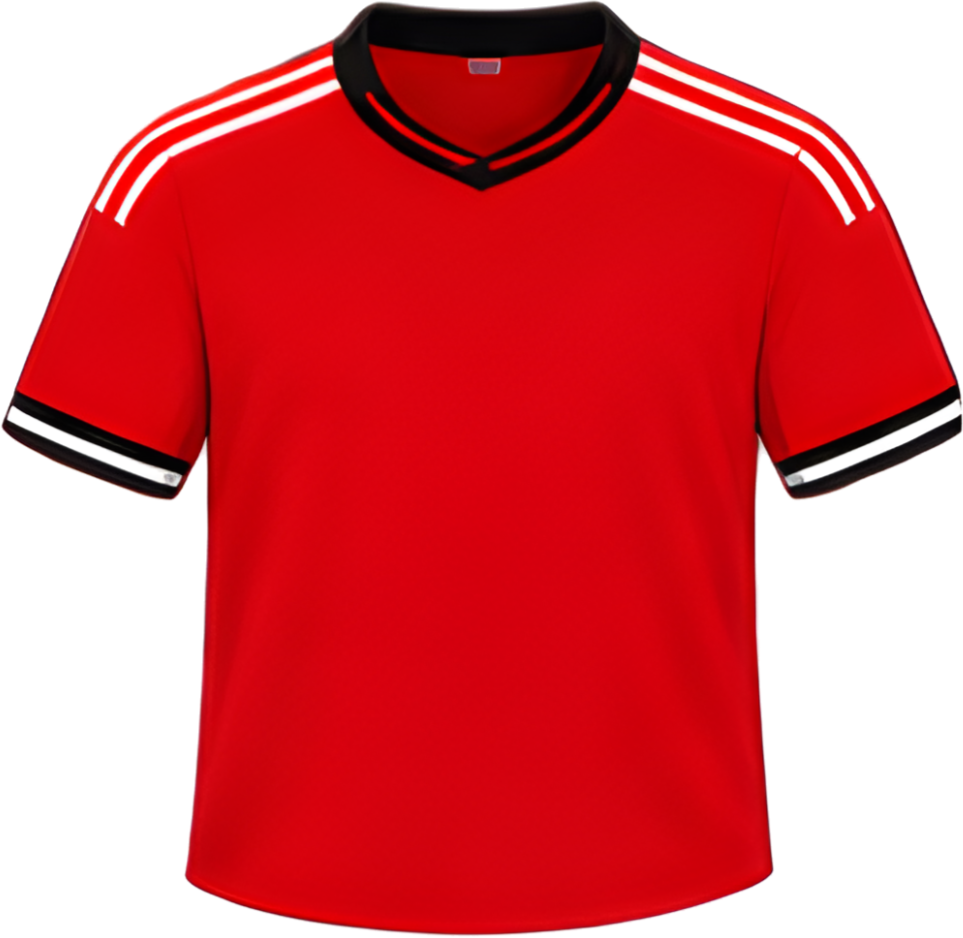
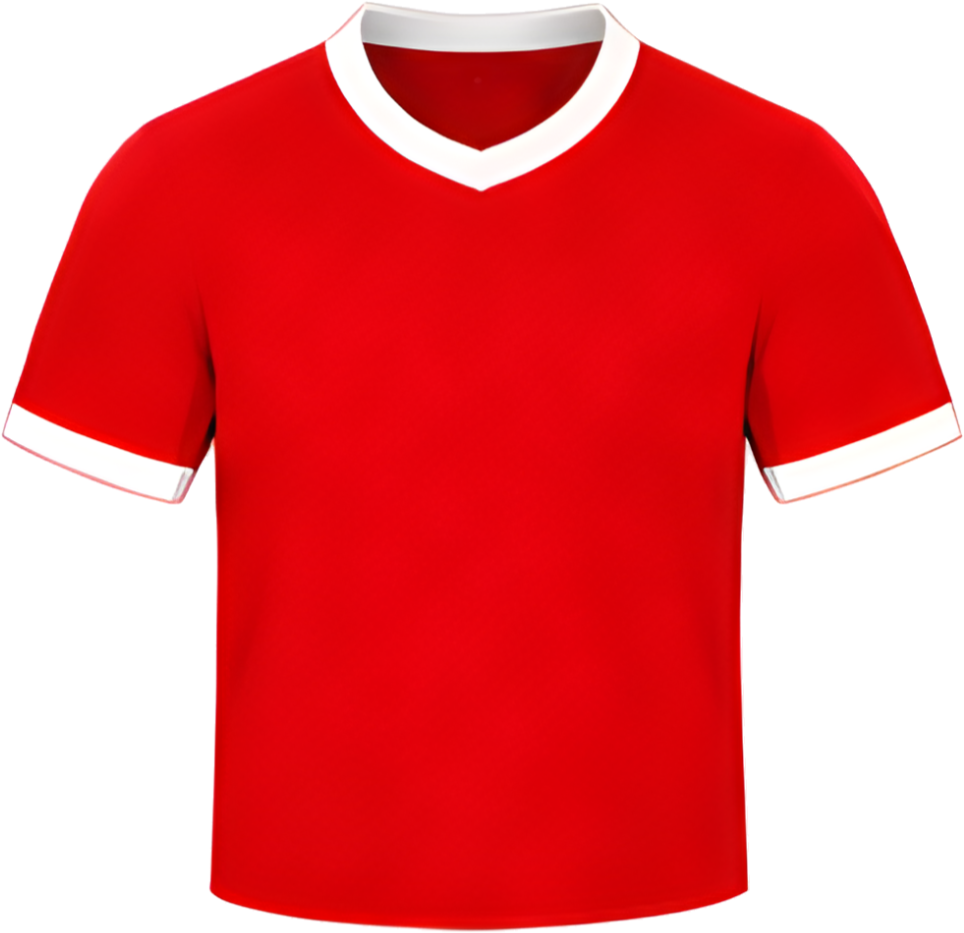
changes

diff --git a/index.html b/index.html
@@ -535,11 +535,11 @@
   .lp-pia {
     background: var(--bg-soft);
     border-top: 1px solid var(--border); border-bottom: 1px solid var(--border);
-    padding: 64px 0;
+    padding: 60px 24px;
   }
   .lp-pia-grid {
     display: grid; grid-template-columns: 1.05fr 0.95fr; gap: 48px; align-items: center;
-    max-width: 1120px; margin: 0 auto; padding: 0 24px;
+    width: 100%; margin: 0; padding: 0;
   }
   .lp-pia-copy p.lp-section-sub { margin-bottom: 26px; }
   .lp-pia-list { list-style: none; margin: 0 0 30px; padding: 0; display: flex; flex-direction: column; gap: 14px; }
@@ -553,13 +553,13 @@
     max-width: 480px; width: 100%; margin: 0 auto;
   }
   @media (max-width: 600px) {
-    .lp-pia-demo { max-width: 358px; }
+    .lp-pia-demo { max-width: 100%; }
   }
   .lp-pia-demo-head { display: flex; align-items: center; justify-content: space-between; margin-bottom: 14px; }
   .lp-pia-demo-title { font-size: 11.5px; font-weight: 700; letter-spacing: 0.8px; text-transform: uppercase; color: var(--text-dimmer); }
   .lp-pia-demo-badge {
-    font-family: 'JetBrains Mono', monospace; font-size: 11px; font-weight: 700; color: var(--blue);
-    border: 1px solid rgba(15,111,232,0.4); background: rgba(15,111,232,0.1);
+    font-family: 'JetBrains Mono', monospace; font-size: 11px; font-weight: 700; color: #ef4444;
+    border: 1px solid rgba(239, 68, 68, 0.4); background: rgba(239, 68, 68, 0.1);
     padding: 3px 9px; border-radius: 999px;
   }
 
@@ -568,10 +568,10 @@
     display: flex; gap: 10px; margin-bottom: 12px;
   }
   .lp-comp-tab {
-    flex: 1; display: flex; align-items: center; justify-content: flex-start; gap: 9px;
+    flex: 1; display: flex; align-items: center; justify-content: flex-start; gap: 8px;
     background: #061411; border: 1.5px solid rgba(255,255,255,0.08); border-radius: 14px;
-    padding: 13px 18px; min-height: 50px; font-size: 13.5px; font-weight: 700; color: var(--text-dim);
-    cursor: pointer; transition: all .15s ease;
+    padding: 13px 12px; min-height: 50px; font-size: 13.5px; font-weight: 700; color: var(--text-dim);
+    cursor: pointer; transition: all .15s ease; white-space: nowrap;
   }
   .lp-comp-tab:hover {
     background: rgba(255,255,255,0.05); color: #ffffff;
@@ -598,7 +598,7 @@
     background: #0d1512;
     border: 1px solid rgba(255, 255, 255, 0.12);
     border-radius: 14px;
-    padding: 10px 14px 12px;
+    padding: 10px 10px 12px;
     box-shadow: 0 10px 28px rgba(0, 0, 0, 0.5);
     width: 100%; box-sizing: border-box;
   }
@@ -608,25 +608,25 @@
     font-family: 'JetBrains Mono', monospace; text-transform: uppercase;
   }
   .lp-match-card-main {
-    display: flex; align-items: center; justify-content: space-between; gap: 6px; margin-bottom: 10px;
+    display: flex; align-items: center; justify-content: space-between; gap: 4px; margin-bottom: 10px;
   }
   .lp-match-team {
-    display: flex; align-items: center; gap: 7px; flex: 1; min-width: 0;
+    display: flex; align-items: center; gap: 6px; flex: 1; min-width: 0;
   }
   .lp-match-team-home { justify-content: flex-start; text-align: left; }
   .lp-match-team-away { justify-content: flex-end; text-align: right; }
   .lp-match-jersey {
-    width: 26px; height: 30px; object-fit: contain; flex-shrink: 0; display: block;
+    width: 28px; height: 32px; object-fit: contain; flex-shrink: 0; display: block;
   }
   .lp-match-team-name {
-    font-size: 12.5px; font-weight: 700; color: #ffffff; line-height: 1.25;
+    font-size: 12.5px; font-weight: 700; color: #ffffff; line-height: 1.2;
     word-break: normal; overflow-wrap: break-word;
   }
   .lp-match-score-inputs {
     display: flex; align-items: center; justify-content: center; gap: 0; flex-shrink: 0;
   }
   .lp-score-box {
-    width: 42px; height: 44px; border-radius: 9px;
+    width: 38px; height: 40px; border-radius: 9px;
     background: rgba(255, 255, 255, 0.04); border: 1px solid rgba(255, 255, 255, 0.14);
     display: flex; align-items: center; justify-content: center;
     font-family: 'JetBrains Mono', monospace; font-size: 20px; font-weight: 700; color: #7E8584;
@@ -640,7 +640,7 @@
   }
   .lp-score-box:active { transform: scale(0.92); }
   .lp-match-vs {
-    width: 26px; text-align: center; font-size: 11.5px; font-weight: 600; color: #7E8584; text-transform: lowercase;
+    width: 20px; text-align: center; font-size: 11.5px; font-weight: 600; color: #7E8584; text-transform: lowercase;
   }
 
   /* Three odds pills */
@@ -731,11 +731,11 @@
   }
   .lp-leaderboard-sec .lp-section-head {
     max-width: 640px;
-    margin: 0 auto 32px;
+    margin: 0 0 32px;
     text-align: left;
   }
   .lp-lb-container {
-    margin: 0 auto;
+    margin: 0;
     max-width: 640px;
   }
   .lp-lb-inner-box {
@@ -1243,8 +1243,9 @@
   @media (max-width: 600px) {
     section, .lp-leaderboard-sec { padding: 48px 16px; }
     .wrap { padding-left: 0; padding-right: 0; }
+    .lp-lb-container { margin: 0 auto; max-width: 100%; }
     .lp-lb-inner-box { padding: 20px 14px; border-radius: 18px; }
-    .lp-comp-tab { justify-content: flex-start; padding: 12px 14px; min-height: 48px; font-size: 13px; }
+    .lp-comp-tab { justify-content: flex-start; padding: 12px 10px; min-height: 48px; font-size: 13.5px; gap: 8px; white-space: nowrap; }
     .lp-tab-dots { margin-bottom: 20px; }
     .lp-league-card { padding: 18px 12px; border-radius: 16px; }
     .lp-pub-card { padding: 12px 12px 14px; }
@@ -1468,11 +1469,11 @@
 
         <!-- Competition Tabs -->
         <div class="lp-comp-tabs">
-          <button class="lp-comp-tab" id="tabEPL" type="button">
+          <button class="lp-comp-tab is-active" id="tabEPL" type="button">
             <img src="images/primier.png" alt="" width="18" height="14">
             <span>Premier League</span>
           </button>
-          <button class="lp-comp-tab is-active" id="tabLiga1" type="button">
+          <button class="lp-comp-tab" id="tabLiga1" type="button">
             <img src="images/indonesia.png" alt="" width="18" height="14">
             <span>Liga 1</span>
           </button>
@@ -1480,17 +1481,17 @@
 
         <!-- Tab indicator dots -->
         <div class="lp-tab-dots">
-          <div class="lp-tab-dot" id="dotEPL"></div>
-          <div class="lp-tab-dot is-active" id="dotLiga1"></div>
+          <div class="lp-tab-dot is-active" id="dotEPL"></div>
+          <div class="lp-tab-dot" id="dotLiga1"></div>
         </div>
 
         <!-- Match Card -->
         <div class="lp-match-card">
-          <div class="lp-match-card-date" id="matchDate">SUN, 21 MAR · 8:00PM</div>
+          <div class="lp-match-card-date" id="matchDate">SAT, 20 MAR · 7:30PM</div>
           <div class="lp-match-card-main">
             <div class="lp-match-team lp-match-team-home">
-              <img id="crestA" src="images/jersey_persija.png" alt="" class="lp-match-jersey">
-              <span class="lp-match-team-name" id="teamAName">Persija<br>Jakarta</span>
+              <img id="crestA" src="images/jersey_manutd.png" alt="" class="lp-match-jersey">
+              <span class="lp-match-team-name" id="teamAName">Man. United</span>
             </div>
             <div class="lp-match-score-inputs">
               <div class="lp-score-box" id="boxA" role="button" tabindex="0" aria-label="Change home score">-</div>
@@ -1498,14 +1499,14 @@
               <div class="lp-score-box" id="boxB" role="button" tabindex="0" aria-label="Change away score">-</div>
             </div>
             <div class="lp-match-team lp-match-team-away">
-              <span class="lp-match-team-name" id="teamBName">Persib<br>Bandung</span>
-              <img id="crestB" src="images/jersey_persib.png" alt="" class="lp-match-jersey">
+              <span class="lp-match-team-name" id="teamBName">Liverpool</span>
+              <img id="crestB" src="images/jersey_liverpool.png" alt="" class="lp-match-jersey">
             </div>
           </div>
           <div class="lp-match-chips">
-            <div class="lp-match-chip" id="chipHome"><span id="ptsHome">38</span> PTS</div>
-            <div class="lp-match-chip" id="chipDraw"><span id="ptsDraw">36</span> PTS</div>
-            <div class="lp-match-chip" id="chipAway"><span id="ptsAway">26</span> PTS</div>
+            <div class="lp-match-chip" id="chipHome"><span id="ptsHome">28</span> PTS</div>
+            <div class="lp-match-chip" id="chipDraw"><span id="ptsDraw">39</span> PTS</div>
+            <div class="lp-match-chip" id="chipAway"><span id="ptsAway">33</span> PTS</div>
           </div>
         </div>
 
@@ -1670,10 +1671,8 @@
         <div class="lp-lb-pos-body">
           <div class="lp-lb-pos-left">
             <span class="lp-lb-pos-rank" id="lb-user-rank">69</span>
-            <div class="lp-lb-avatar" data-color="blue" id="lb-user-avatar">
-              <svg viewBox="0 0 24 24" fill="currentColor">
-                <path d="M12 12c2.21 0 4-1.79 4-4s-1.79-4-4-4-4 1.79-4 4 1.79 4 4 4zm0 2c-2.67 0-8 1.34-8 4v2h16v-2c0-2.66-5.33-4-8-4z"/>
-              </svg>
+            <div class="lp-lb-avatar" id="lb-user-avatar">
+              <img src="images/avatar_user.png" class="lp-lb-avatar-img" alt="You">
             </div>
             <span class="lp-lb-player-name">You</span>
             <span class="lp-flag id" title="Indonesia"></span>
@@ -1813,7 +1812,7 @@
     }
   };
 
-  var currentMatchKey = 'liga1';
+  var currentMatchKey = 'epl';
 
   var boxA = document.getElementById('boxA');
   var boxB = document.getElementById('boxB');
@@ -1924,7 +1923,7 @@
     });
   }
 
-  loadMatch('liga1');
+  loadMatch('epl');
 
   // Featured league "Ends In" if element present
   var endsInEl = document.getElementById('featuredEndsIn');
@@ -2078,7 +2077,7 @@
     if (lbUserPoints) lbUserPoints.textContent = data.userPoints;
     var userAvatarEl = document.getElementById('lb-user-avatar');
     if (userAvatarEl) {
-      userAvatarEl.innerHTML = '<img src="images/avatars/' + avatars[0] + '" class="lp-lb-avatar-img" alt="You">';
+      userAvatarEl.innerHTML = '<img src="images/avatar_user.png" class="lp-lb-avatar-img" alt="You">';
     }
 
     if (lbRoundTitle) lbRoundTitle.textContent = 'Round ' + currentRound;
@@ -2108,13 +2107,14 @@
         rankBadge = '<span class="lp-lb-rank-num">' + p.rank + '</span>';
       }
 
-      var playerAvatar = avatars[(idx + 1) % avatars.length];
+      var playerAvatar = avatars[idx % avatars.length];
+      var avatarSrc = (p.name === 'You' || p.isUser) ? 'images/avatar_user.png' : ('images/avatars/' + playerAvatar);
 
       html += '<div class="' + rowClass + '">' +
         '<div class="lp-lb-rank">' + rankBadge + '</div>' +
         '<div class="lp-lb-player">' +
           '<div class="lp-lb-avatar">' +
-            '<img src="images/avatars/' + playerAvatar + '" class="lp-lb-avatar-img" alt="">' +
+            '<img src="' + avatarSrc + '" class="lp-lb-avatar-img" alt="">' +
           '</div>' +
           '<span class="lp-lb-player-name">' + p.name + '</span>' +
           '<span class="lp-flag id" title="Indonesia"></span>' +
@@ -2202,37 +2202,34 @@
   }
 
   /* ==================== SMART "GET THE APP" REDIRECT ==================== */
-  function detectStore() {
+  function detectStoreTarget() {
     var ua = (navigator.userAgent || navigator.vendor || '').toLowerCase();
     var platform = (navigator.platform || '').toLowerCase();
+
+    // 1. iOS (iPhone, iPad, iPod, or iPadOS on MacIntel with touch)
     var isIOS = /iphone|ipad|ipod/.test(ua) || (platform === 'macintel' && navigator.maxTouchPoints > 1);
+    if (isIOS) return 'apple';
+
+    // 2. Android mobile
     var isAndroid = /android/.test(ua);
-    if (isIOS) return 'ios';
     if (isAndroid) return 'android';
-    if (/mac/.test(platform) || /macintosh/.test(ua)) return 'ios';
-    if (/win/.test(platform) || /windows/.test(ua)) return 'android';
-    return 'unknown';
+
+    // 3. Mac desktop (macOS) -> redirect directly to Apple App Store
+    var isMac = /macintosh|macintel|macppc|mac68k|darwin/.test(platform) || /mac os x/.test(ua);
+    if (isMac) return 'apple';
+
+    // 4. Windows desktop / PC / other -> redirect directly to Google Play Store
+    return 'google';
   }
 
   function goToStore() {
-    var store = detectStore();
-    if (store === 'ios') {
-      window.location.href = 'itms-apps://apps.apple.com/app/bolaverse/id6793082058';
-    } else if (store === 'android') {
-      var isInstalled = false;
-      try { isInstalled = localStorage.getItem('bv_android_installed') === 'true'; } catch(e) {}
-      if (isInstalled) {
-        window.location.href = 'market://details?id=com.bolaverse.app';
-      } else {
-        window.location.href = 'market://details?id=com.bolaverse.app';
-      }
+    var target = detectStoreTarget();
+    if (target === 'apple') {
+      window.location.href = 'https://apps.apple.com/app/bolaverse/id6793082058';
+    } else if (target === 'android') {
+      window.location.href = 'intent://details?id=com.bolaverse.app#Intent;scheme=market;package=com.android.vending;S.browser_fallback_url=' + encodeURIComponent('https://play.google.com/store/apps/details?id=com.bolaverse.app') + ';end';
     } else {
-      var dl = document.getElementById('download');
-      if (dl) {
-        dl.scrollIntoView({ behavior: 'smooth' });
-      } else {
-        window.location.href = '#download';
-      }
+      window.location.href = 'https://play.google.com/store/apps/details?id=com.bolaverse.app';
     }
   }
 
@@ -2261,7 +2258,7 @@
       var isAndroid = /android/.test(ua);
       if (isAndroid) {
         e.preventDefault();
-        window.location.href = 'market://details?id=com.bolaverse.app';
+        window.location.href = 'intent://details?id=com.bolaverse.app#Intent;scheme=market;package=com.android.vending;S.browser_fallback_url=' + encodeURIComponent('https://play.google.com/store/apps/details?id=com.bolaverse.app') + ';end';
       }
     });
   });
@@ -2294,7 +2291,7 @@
 
     var PKG = 'com.bolaverse.app';
     var PLAY_STORE_URL = 'https://play.google.com/store/apps/details?id=' + PKG;
-    var MARKET_URL = 'market://details?id=' + PKG;
+    var MARKET_URL = 'intent://details?id=' + PKG + '#Intent;scheme=market;package=com.android.vending;S.browser_fallback_url=' + encodeURIComponent(PLAY_STORE_URL) + ';end';
     // Intent: tries to OPEN the installed app by package name.
     // Android OS automatically falls back to Play Store if app is not installed.
     var INTENT_URL = 'intent://#Intent;action=android.intent.action.MAIN;category=android.intent.category.LAUNCHER;package=' + PKG + ';S.browser_fallback_url=' + encodeURIComponent(PLAY_STORE_URL) + ';end';

diff --git a/Help_Center.html b/Help_Center.html
@@ -1094,13 +1094,6 @@
     var isAndroid = /android/.test(ua);
 
     // On iOS Safari, Apple's native Smart App Banner handles this via <meta name="apple-itunes-app">.
-<link rel="icon" href="favicon.ico" sizes="48x48" />
-<link rel="icon" href="favicon.png" type="image/png" sizes="96x96" />
-<link rel="icon" href="favicon-48x48.png" type="image/png" sizes="48x48" />
-<link rel="icon" href="favicon-32x32.png" type="image/png" sizes="32x32" />
-<link rel="icon" href="favicon-16x16.png" type="image/png" sizes="16x16" />
-<link rel="apple-touch-icon" href="apple-touch-icon.png" sizes="180x180" />
-<link rel="manifest" href="site.webmanifest" />
     // Non-Safari browsers on iOS contain crios, fxios, edgios, opt/, etc.
     var isIOSSafari = isIOS && /safari/.test(ua) && /version\//.test(ua) && !/crios|fxios|edgios|opt\/|duckduckgo|instagram|fb_iab/.test(ua);
 

diff --git a/terms-of-service.html b/terms-of-service.html
@@ -1087,13 +1087,6 @@
     var isAndroid = /android/.test(ua);
 
     // On iOS Safari, Apple's native Smart App Banner handles this via <meta name="apple-itunes-app">.
-<link rel="icon" href="favicon.ico" sizes="48x48" />
-<link rel="icon" href="favicon.png" type="image/png" sizes="96x96" />
-<link rel="icon" href="favicon-48x48.png" type="image/png" sizes="48x48" />
-<link rel="icon" href="favicon-32x32.png" type="image/png" sizes="32x32" />
-<link rel="icon" href="favicon-16x16.png" type="image/png" sizes="16x16" />
-<link rel="apple-touch-icon" href="apple-touch-icon.png" sizes="180x180" />
-<link rel="manifest" href="site.webmanifest" />
     // Non-Safari browsers on iOS contain crios, fxios, edgios, opt/, etc.
     var isIOSSafari = isIOS && /safari/.test(ua) && /version\//.test(ua) && !/crios|fxios|edgios|opt\/|duckduckgo|instagram|fb_iab/.test(ua);
 
